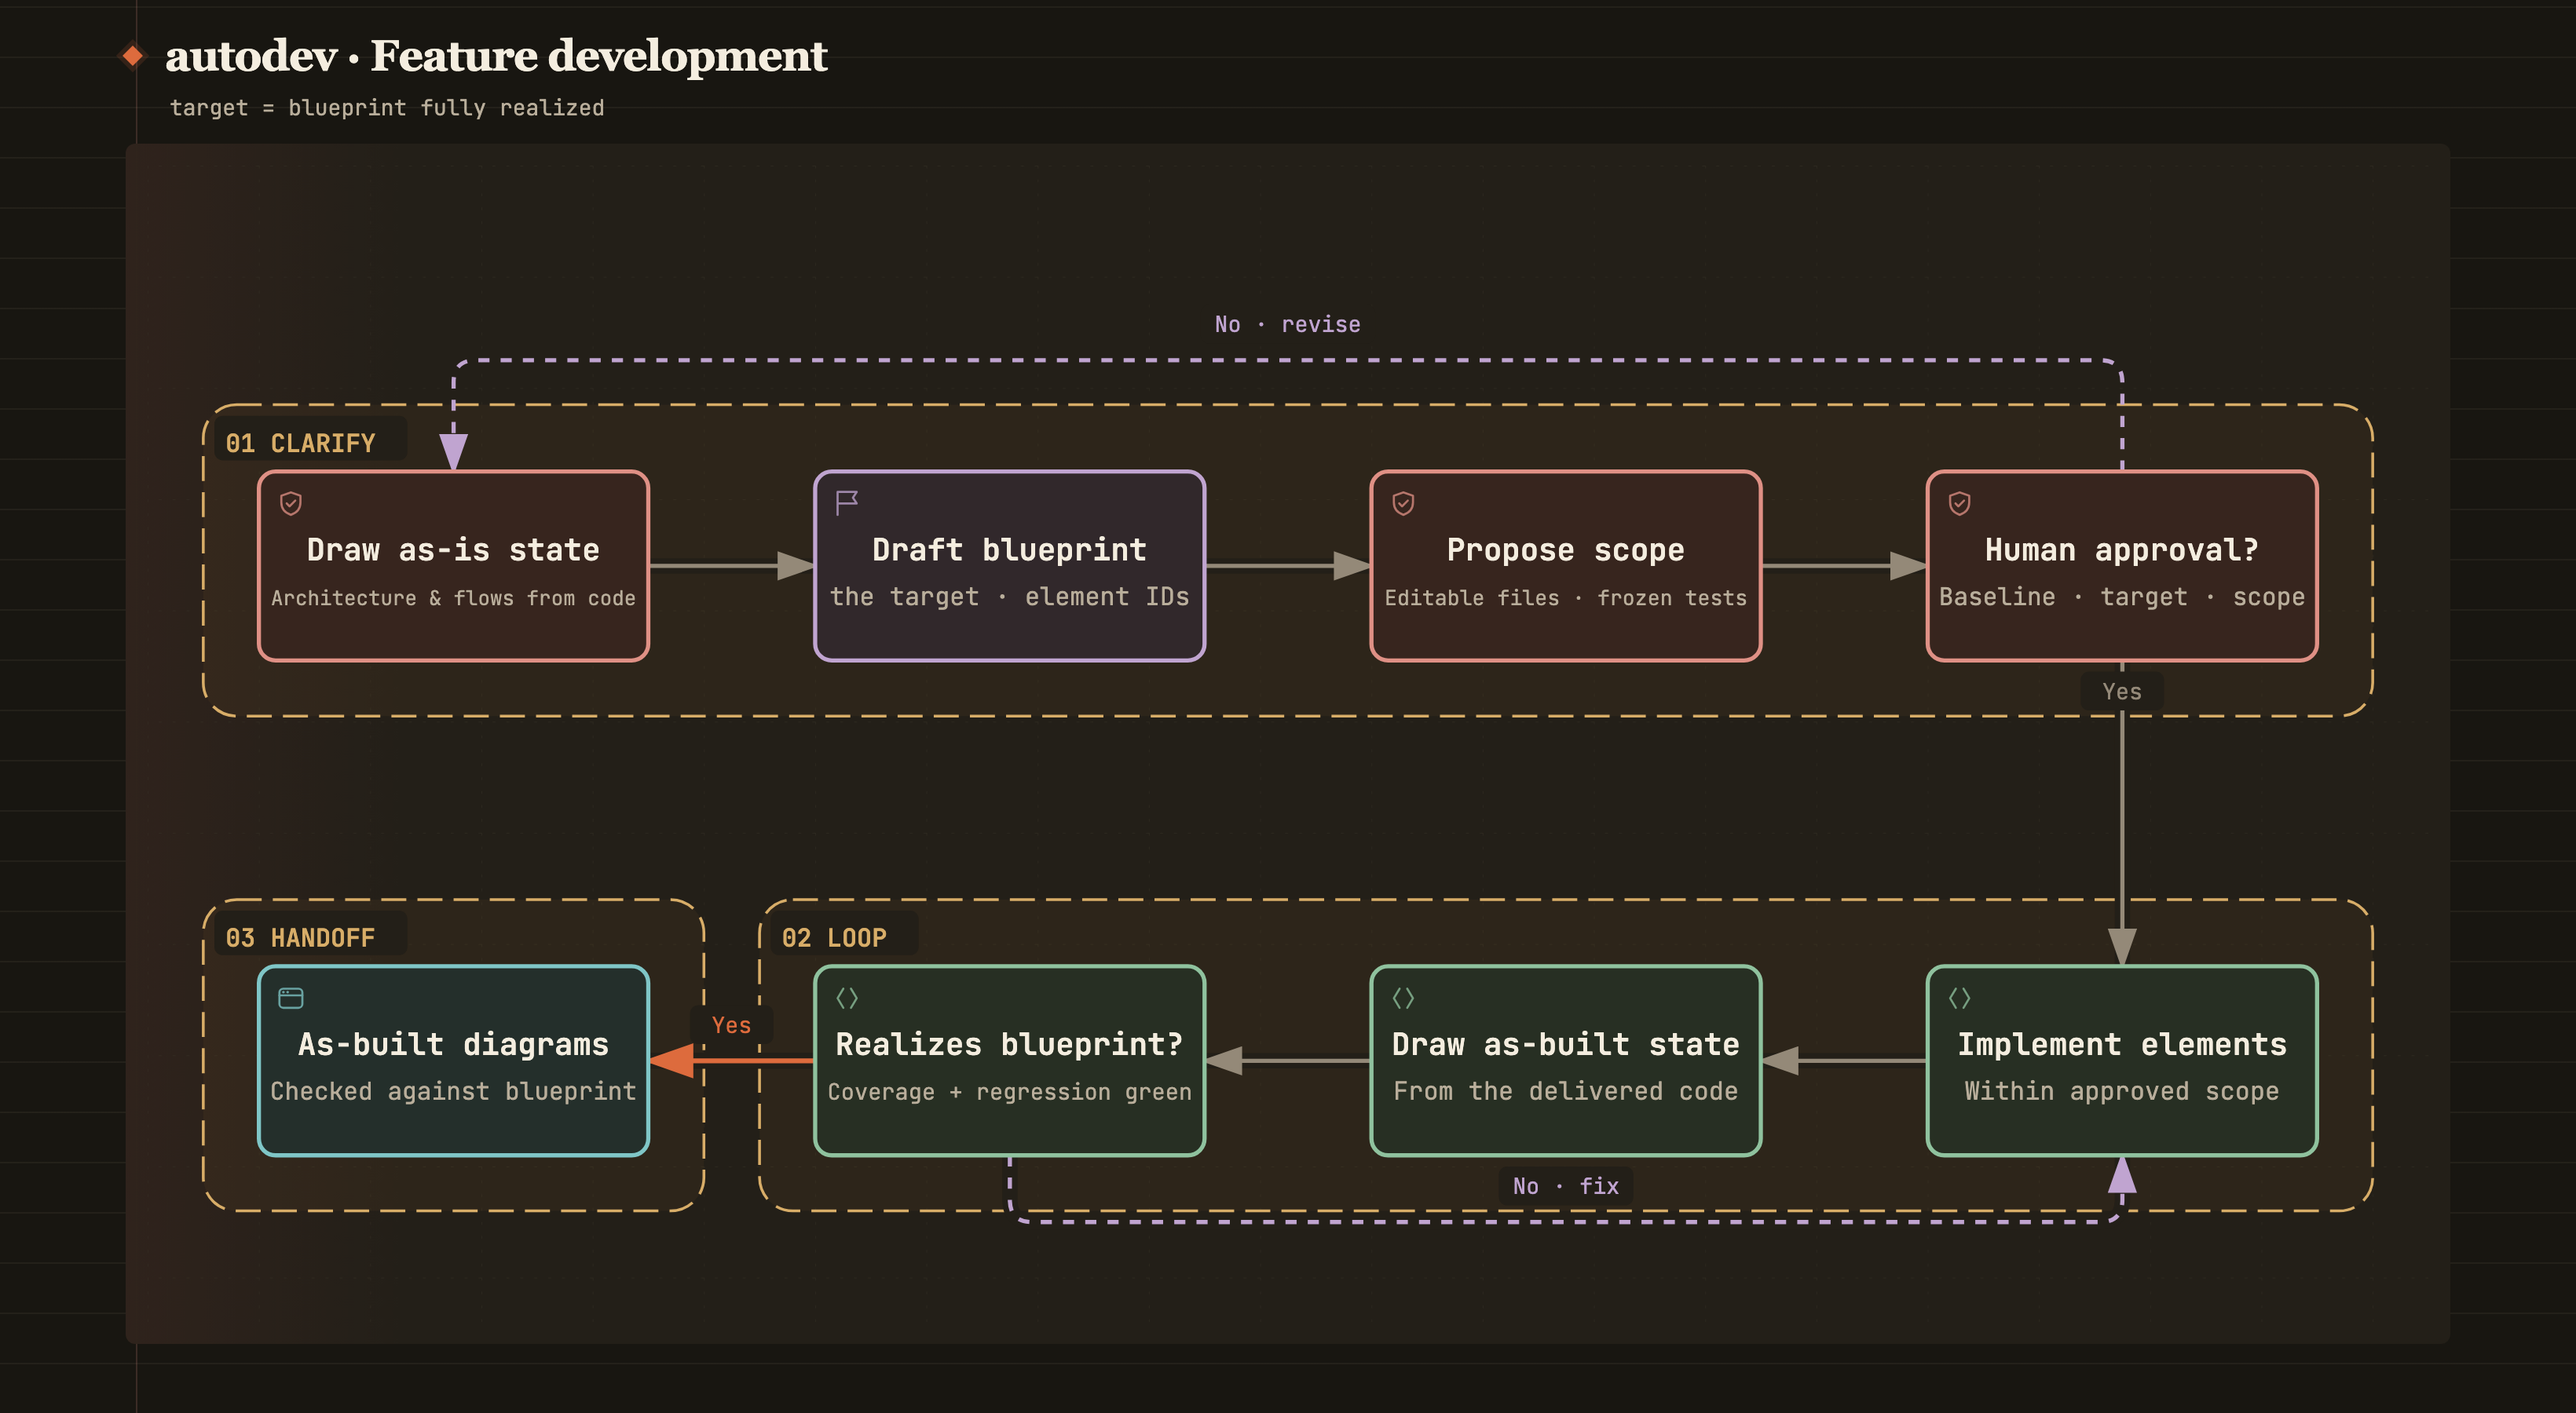
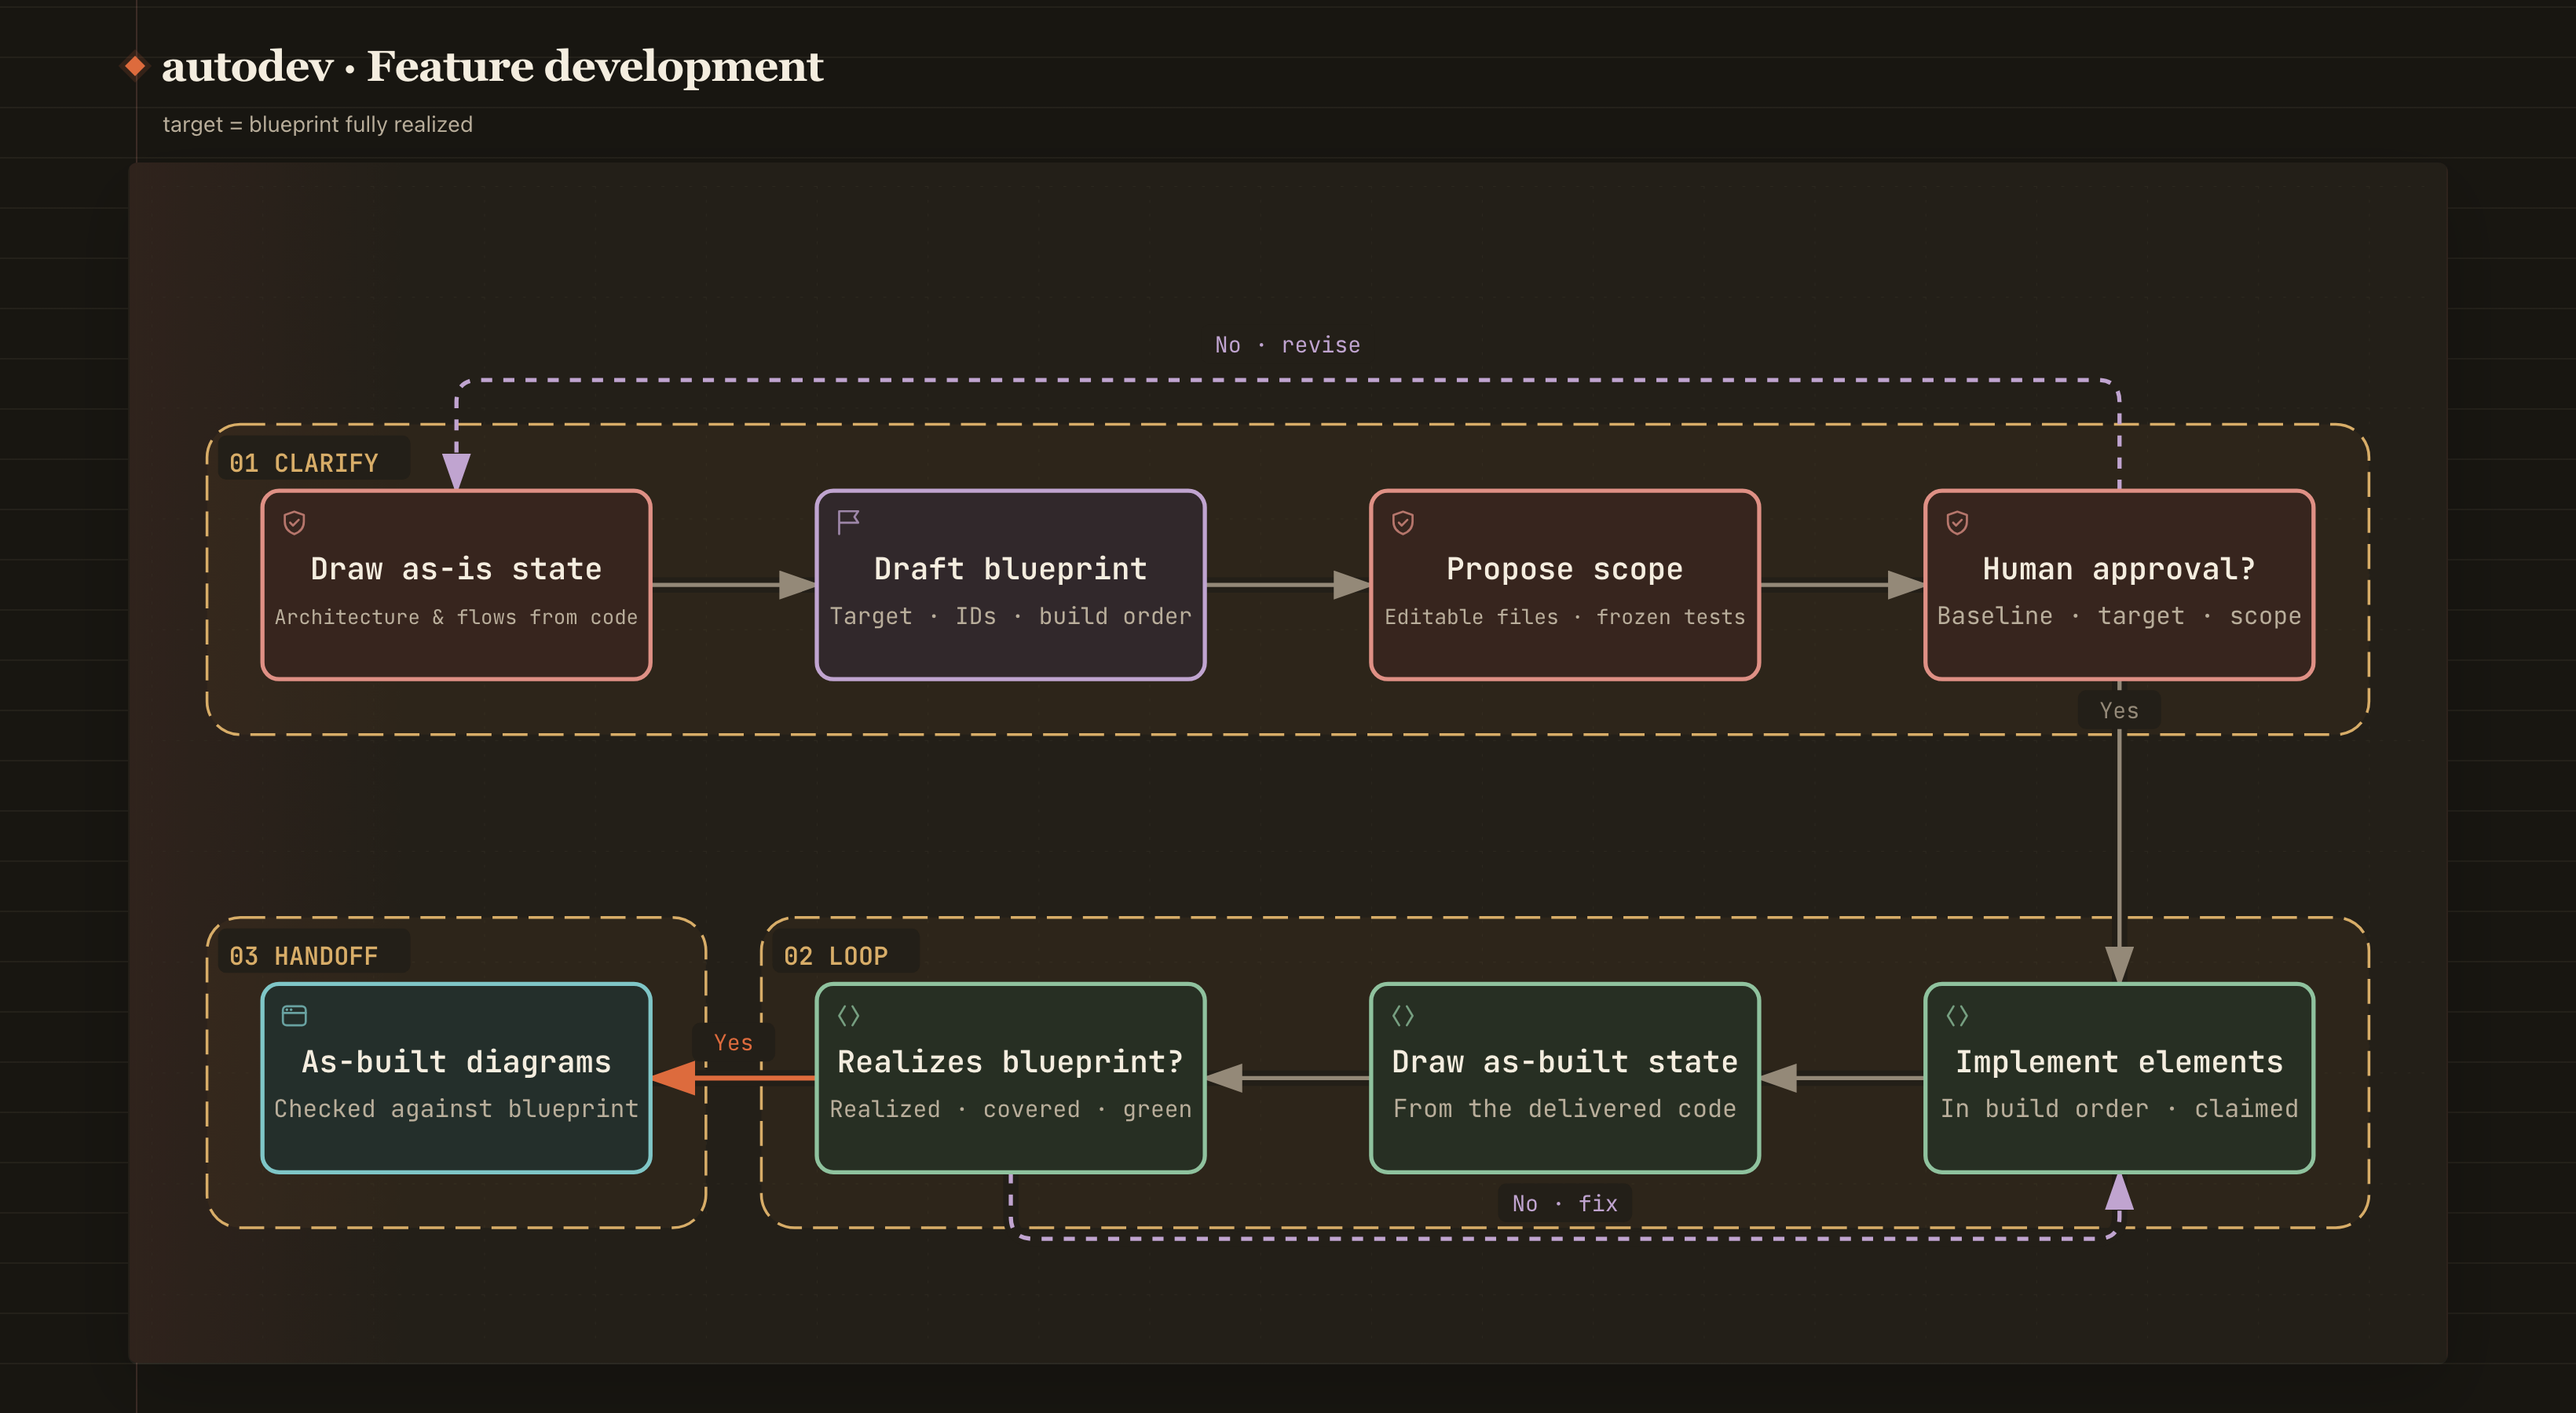
docs: show build order, noise control, and route labels in the workflow maps

diff --git a/CONTRIBUTING.md b/CONTRIBUTING.md
@@ -72,7 +72,7 @@ Keep the PNGs opaque and dark regardless of the README viewer's color scheme. Us
 
 ### Regenerate with Archify
 
-Use the installed skill root containing `SKILL.md` and `bin/archify.mjs`. The checked workflow was generated with Archify `2.17.0-dev.1`, checkout `72c750b`.
+Use the installed skill root containing `SKILL.md` and `bin/archify.mjs`. The checked workflow was generated with Archify `2.17.0-dev.1`, checkout `9102a91`.
 
 ```bash
 ARCHIFY_SKILL=/path/to/archify/archify
